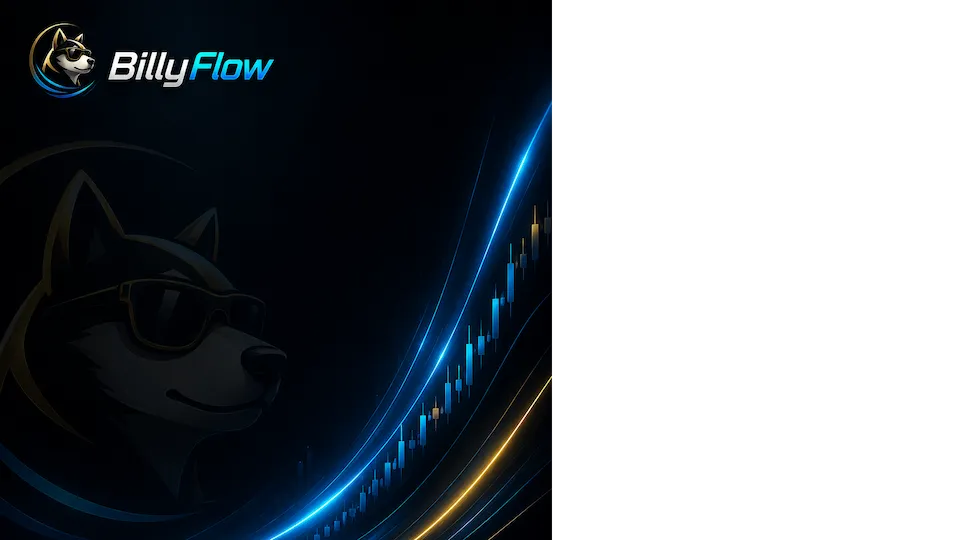
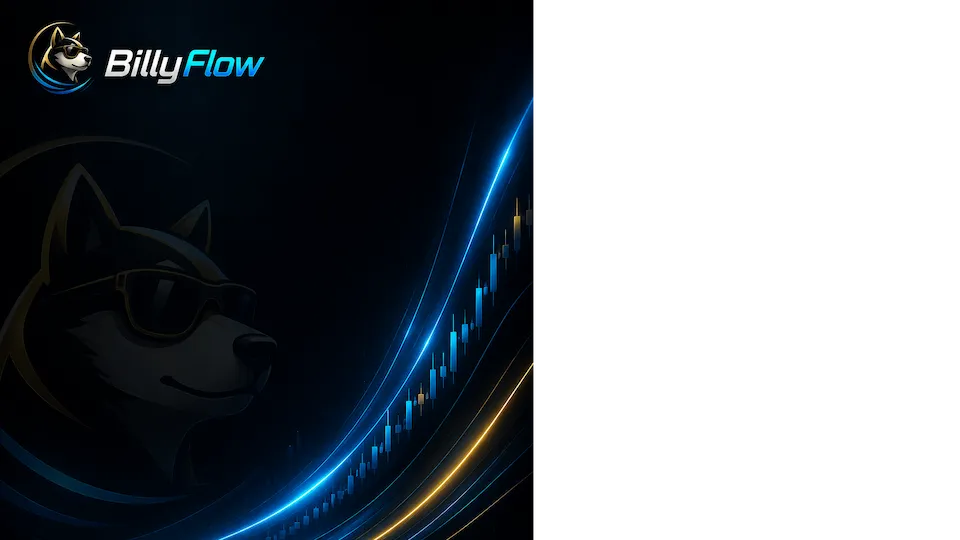
Update DEX configuration and branding

diff --git a/public/config.js b/public/config.js
@@ -17,8 +17,8 @@ window.__RUNTIME_CONFIG__ = {
   "VITE_APP_NAME": "BillyFlow",
   "VITE_APP_DESCRIPTION": "BillyFlow is a next generation decentralized perpetual exchange built for traders who demand speed, deep liquidity, and a seamless trading experience.",
   "VITE_HAS_PRIMARY_LOGO": "true",
-  "VITE_HAS_SECONDARY_LOGO": "false",
-  "VITE_ENABLED_MENUS": "Markets,Trading,Campaigns,Rewards,Points,Portfolio,Leaderboard,Swap,Vaults",
+  "VITE_HAS_SECONDARY_LOGO": "true",
+  "VITE_ENABLED_MENUS": "Markets,Trading,Rewards,Points,Portfolio,Leaderboard,Swap,Vaults",
   "VITE_CUSTOM_MENUS": "",
   "VITE_ENABLE_SERVICE_DISCLAIMER_DIALOG": "false",
   "VITE_ENABLE_CAMPAIGNS": "false",
@@ -35,7 +35,7 @@ window.__RUNTIME_CONFIG__ = {
   "VITE_SEO_KEYWORDS": "BillyFlow, perpetual DEX, decentralized exchange, crypto trading, perpetual trading, leverage trading, DeFi trading, onchain trading, crypto perpetuals, Billycoin",
   "VITE_AVAILABLE_LANGUAGES": "en,zh,tc,ja,es,ko,vi,de,fr,ru,id,tr,it,pt,uk,pl,nl",
   "VITE_USE_CUSTOM_PNL_POSTERS": "true",
-  "VITE_CUSTOM_PNL_POSTER_COUNT": "1",
+  "VITE_CUSTOM_PNL_POSTER_COUNT": "2",
   "VITE_TRADING_VIEW_COLOR_CONFIG": "",
   "VITE_ANALYTICS_SCRIPT": "",
   "VITE_SYMBOL_LIST": "PERP_BTC_USDC,PERP_ETH_USDC,PERP_SOL_USDC,PERP_ARB_USDC,PERP_ZEC_USDC,PERP_XMR_USDC,PERP_MNT_USDC,PERP_HYPE_USDC,PERP_FET_USDC,PERP_TRX_USDC,PERP_DOGE_USDC,PERP_H_USDC,PERP_EDGE_USDC,PERP_BERA_USDC,PERP_XPL_USDC,PERP_XRP_USDC,PERP_SUI_USDC,PERP_JUP_USDC,PERP_PUMP_USDC,PERP_TON_USDC,PERP_ONDO_USDC,PERP_BNB_USDC,PERP_PENGU_USDC,PERP_BASED_USDC,PERP_AVAX_USDC,PERP_APT_USDC,PERP_POL_USDC",